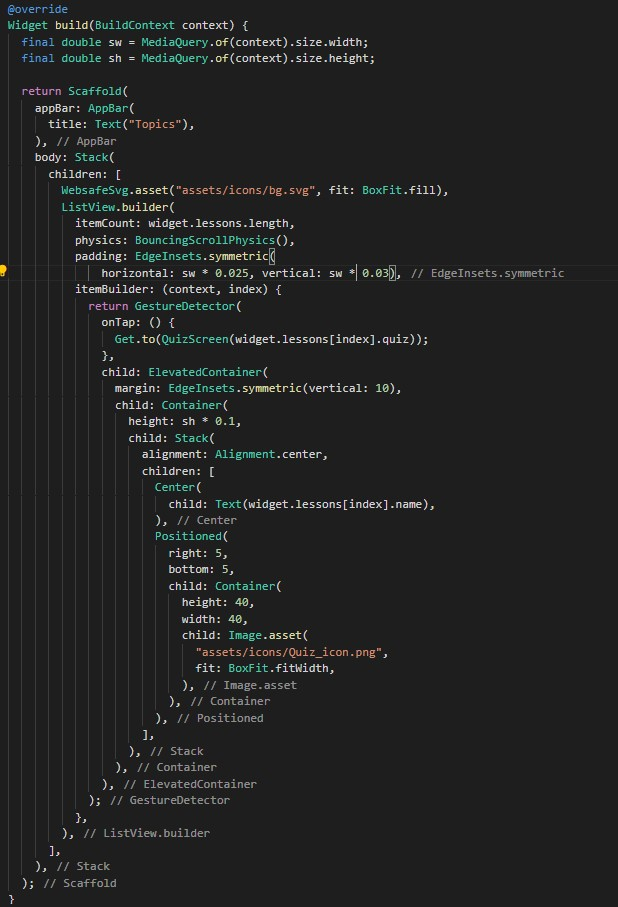
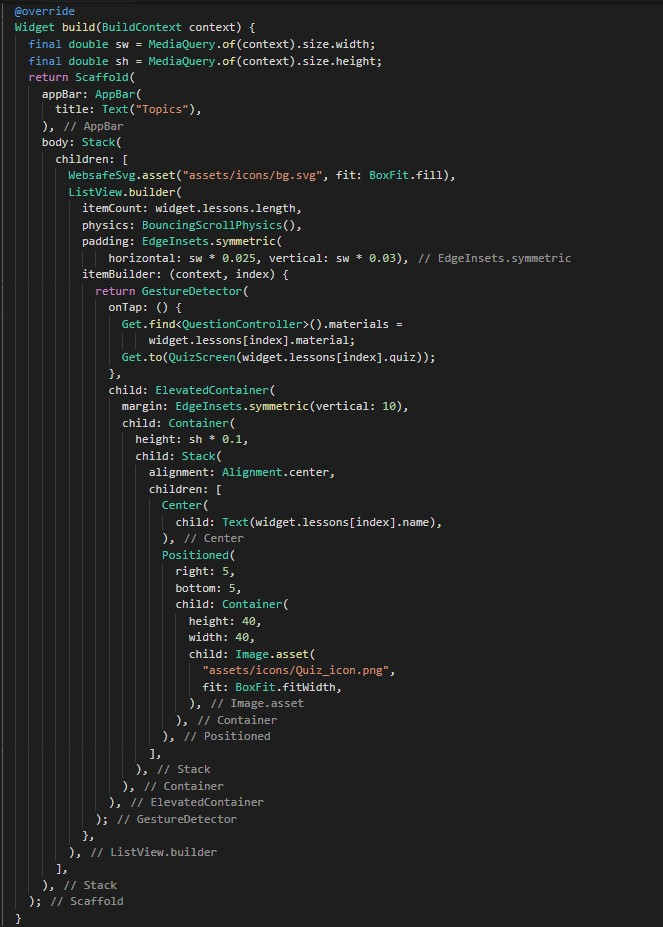
final touch

Changed region(s): [[0.0, 0.0, 0.8916, 1.0], [0.5841, 0.4322, 0.6149, 0.4631]]

diff --git a/lib/providers/question_controller.dart b/lib/providers/question_controller.dart
@@ -2,6 +2,7 @@ import 'package:flutter/widgets.dart';
 import 'package:get/get.dart';
 import 'package:get/state_manager.dart';
 import 'package:advance_pdf_viewer/advance_pdf_viewer.dart';
+import 'package:stemapp1/screens/score/material_screen.dart';
 
 import '../models/Questions.dart';
 import '../screens/score/score_screen.dart';
@@ -25,9 +26,9 @@ class QuestionController extends GetxController
   set questions(List<Question> questions) => _questions = questions;
   List<Question> get questions => this._questions;
 
+  List<PDFDocument> _materials = [];
   PDFDocument _document = new PDFDocument();
-  set document(PDFDocument pdf) => _document = pdf;
-  PDFDocument get document => _document;
+  set materials(List<PDFDocument> pdf) => _materials = pdf;
 
   bool _isAnswered = false;
   bool get isAnswered => this._isAnswered;
@@ -116,13 +117,18 @@ class QuestionController extends GetxController
       _animationController.forward().whenComplete(nextQuestion);
     } else {
       // Get package provide us simple way to naviigate another page
-      document = await PDFDocument.fromAsset("assets/pdfs/test.pdf");
-      Get.to(ScoreScreen(_document));
+      if (correctAns / _questions.length <= 0.5)
+        _document = _materials[0];
+      else if (correctAns / _questions.length > 0.5 &&
+          correctAns / _questions.length < .85)
+        _document = _materials[1];
+      else if (correctAns / _questions.length > 0.85 &&
+          correctAns / _questions.length < .95) _document = _materials[2];
+      Get.to(MaterialScreen(_document));
     }
   }
 
   void updateTheQnNum(int index) {
     _questionNumber.value = index + 1;
   }
-  
 }

diff --git a/lib/screens/topics_screen.dart b/lib/screens/topics_screen.dart
@@ -1,10 +1,12 @@
 import 'package:flutter/material.dart';
 import 'package:get/get.dart';
+import 'package:stemapp1/providers/question_controller.dart';
 
 import 'package:websafe_svg/websafe_svg.dart';
 
 import '../components/elevated_container.dart';
 import '../models/lesson.dart';
+import '../models/subject.dart';
 
 import './quiz/quiz_screen.dart';
 
@@ -17,6 +19,14 @@ class Topics extends StatefulWidget {
 }
 
 class _MyTopicsState extends State<Topics> {
+  QuestionController _questionController = Get.put(QuestionController());
+  @override
+  void initState() {
+    // TODO: implement initState
+    super.initState();
+    init();
+  }
+
   @override
   Widget build(BuildContext context) {
     final double sw = MediaQuery.of(context).size.width;
@@ -36,6 +46,8 @@ class _MyTopicsState extends State<Topics> {
             itemBuilder: (context, index) {
               return GestureDetector(
                 onTap: () {
+                  _questionController.materials =
+                      widget.lessons[index].material;
                   Get.to(QuizScreen(widget.lessons[index].quiz));
                 },
                 child: ElevatedContainer(

diff --git a/lib/models/subject.dart b/lib/models/subject.dart
@@ -13,6 +13,14 @@ class Subject {
   });
 }
 
+PDFDocument pdf, pdf1, pdf2;
+
+Future<void> init() async {
+  pdf = await PDFDocument.fromAsset('assets/pdfs/test.pdf');
+  pdf1 = await PDFDocument.fromAsset('assets/pdfs/test.pdf');
+  pdf2 = await PDFDocument.fromAsset('assets/pdfs/test.pdf');
+}
+
 List<Subject> subjects_data = [
   Subject(
     name: "Chemistry",
@@ -22,11 +30,7 @@ List<Subject> subjects_data = [
         lessons: [
           Lesson(
             name: "Elements and Atom",
-            material: [
-              PDFDocument.fromAsset('assets/pdfs/test.pdf'),
-              PDFDocument.fromAsset('assets/pdfs/test.pdf'),
-              PDFDocument.fromAsset('assets/pdfs/test.pdf'),
-            ],
+            material: [pdf, pdf1, pdf2],
             quiz: [
               Question(
                 id: 1,

diff --git a/lib/screens/home_screen.dart b/lib/screens/home_screen.dart
@@ -30,7 +30,7 @@ class _HomeScreenState extends State<HomeScreen> {
     final double sw = MediaQuery.of(context).size.width;
     return Scaffold(
       appBar: AppBar(
-        title: Text("ST Guide"),
+        title: Text("Super EDU"),
         actions: [
           IconButton(
             icon: Icon(Icons.logout),

diff --git a/lib/models/lesson.dart b/lib/models/lesson.dart
@@ -1,8 +1,9 @@
+import 'package:advance_pdf_viewer/advance_pdf_viewer.dart';
 import 'package:stemapp1/models/Questions.dart';
 
 class Lesson {
   String name;
-  List material;
+  List<PDFDocument> material;
   List<Question> quiz;
   
   Lesson({

diff --git a/lib/screens/auth_screen.dart b/lib/screens/auth_screen.dart
@@ -6,7 +6,6 @@ import '../providers/auth.dart';
 
 import '../components/custom_dialog.dart';
 
-import 'home_screen.dart';
 
 class AuthScreen extends StatelessWidget {
   static const String routeName = "/AuthScreen";
